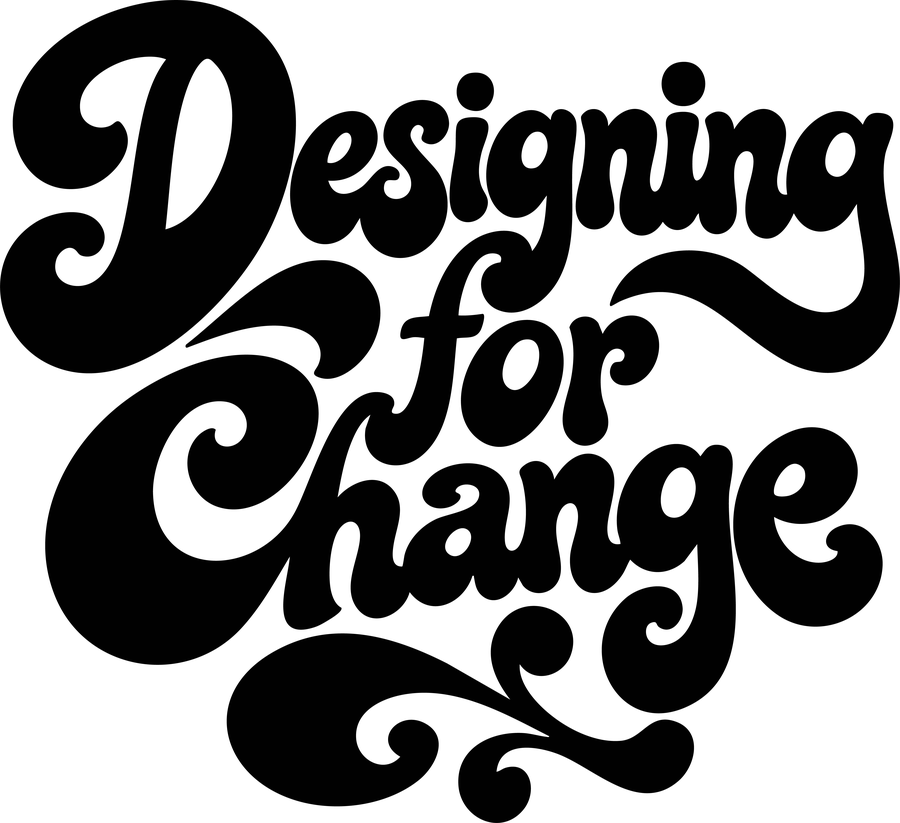
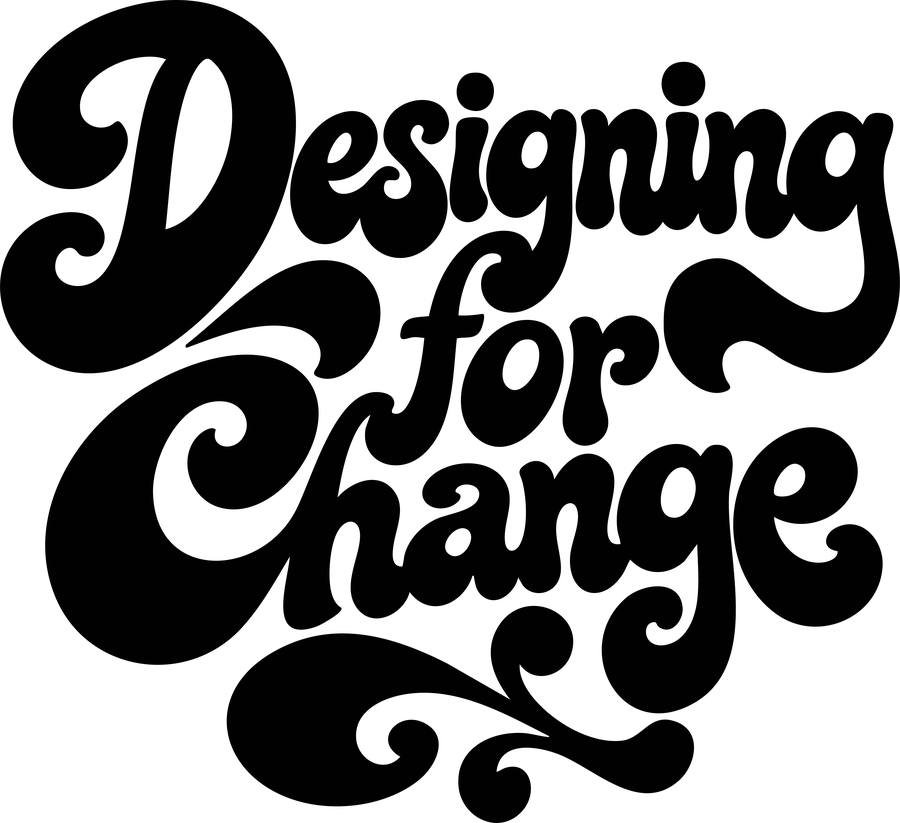
Principles: new Designing for change lettering

Changed region(s): [[0.6844, 0.3038, 0.84, 0.486]]

diff --git a/index.html b/index.html
@@ -195,7 +195,7 @@
             <h3 id="about-pg-h">How I work</h3>
             <p class="about-pg-north">Design to make people's lives easier, more intentional, and (whenever possible) happier.</p>
             <ol class="about-pg-list">
-              <li><a class="pg-1" href="work/principles.html#p1"><span class="about-pg-n">01</span><span class="about-pg-art" style="--art: url(assets/principles/p1-designing-for-change.png)" aria-hidden="true"></span><b class="visually-hidden">Designing for change</b></a></li>
+              <li><a class="pg-1" href="work/principles.html#p1"><span class="about-pg-n">01</span><span class="about-pg-art" style="--art: url(assets/principles/p1-designing-for-change.png?v=2)" aria-hidden="true"></span><b class="visually-hidden">Designing for change</b></a></li>
               <li><a class="pg-2" href="work/principles.html#p2"><span class="about-pg-n">02</span><span class="about-pg-art" style="--art: url(assets/principles/p2-extreme-ownership.png)" aria-hidden="true"></span><b class="visually-hidden">Extreme ownership</b></a></li>
               <li><a class="pg-3" href="work/principles.html#p3"><span class="about-pg-n">03</span><span class="about-pg-art" style="--art: url(assets/principles/p3-never-stop-learning.png)" aria-hidden="true"></span><b class="visually-hidden">Never stop learning</b></a></li>
               <li><a class="pg-4" href="work/principles.html#p4"><span class="about-pg-n">04</span><span class="about-pg-art" style="--art: url(assets/principles/p4-never-fully-satisfied.png)" aria-hidden="true"></span><b class="visually-hidden">Never fully satisfied, but pretty damn close</b></a></li>

diff --git a/work/principles.html b/work/principles.html
@@ -47,7 +47,7 @@
     <ol class="pg-grid">
       <li class="pg-card pg-1" id="p1">
         <span class="pg-num">01</span>
-        <span class="pg-art" style="--art: url(../assets/principles/p1-designing-for-change.png)" aria-hidden="true"></span>
+        <span class="pg-art" style="--art: url(../assets/principles/p1-designing-for-change.png?v=2)" aria-hidden="true"></span>
         <h2 class="visually-hidden">Designing for change.</h2>
         <p>Judged by outcomes over output, not volume shipped. Design is a tool to solve real problems, support real people, and move forward with purpose. Progress over polish. Leave it better than you found it.</p>
       </li>
